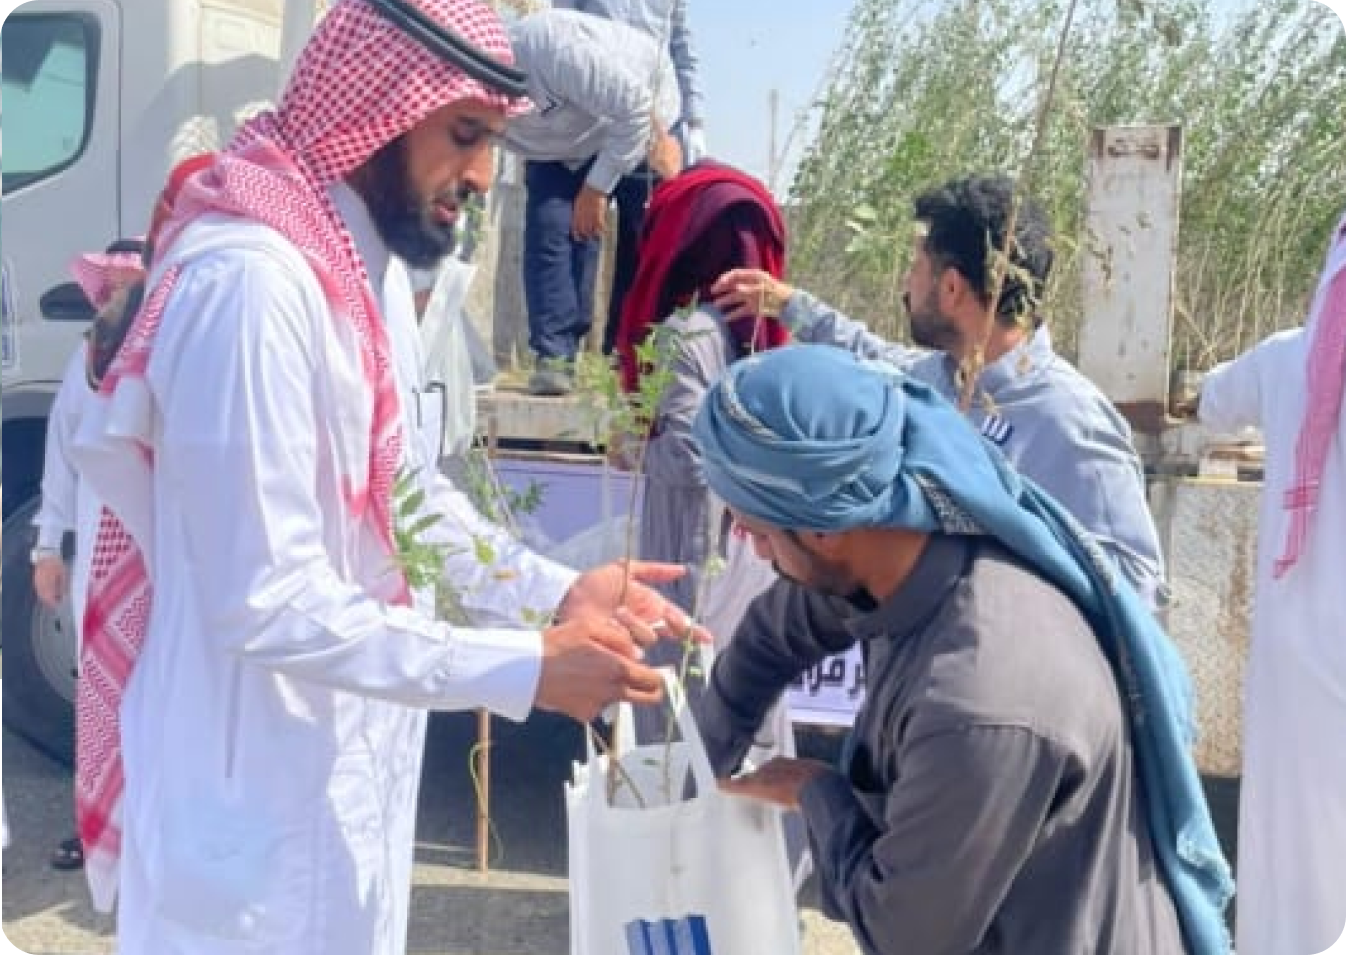
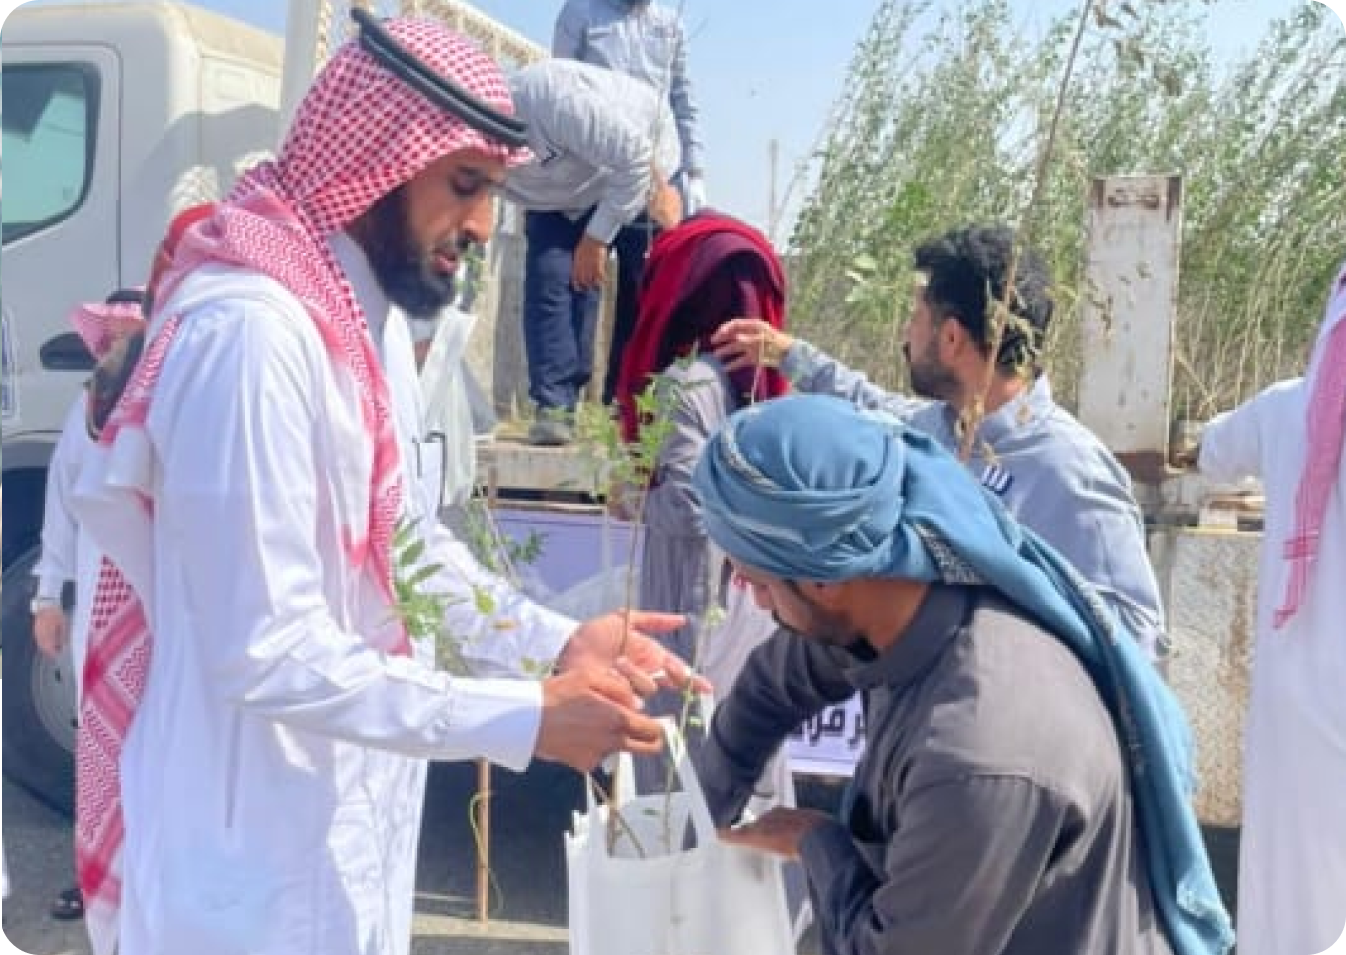
New changes

diff --git a/src/app/components/social-responsibilities/social-responsibilities.component.scss b/src/app/components/social-responsibilities/social-responsibilities.component.scss
@@ -21,10 +21,10 @@
     margin-top: -70px;
 }
 
-.main-img{
-    max-height: 650px;
-    width: 100%;
-}
+// .main-img{
+//     max-height: 650px;
+//     width: 100%;
+// }
 
 @media (max-width: 992px) {
     .environmental-protection {
